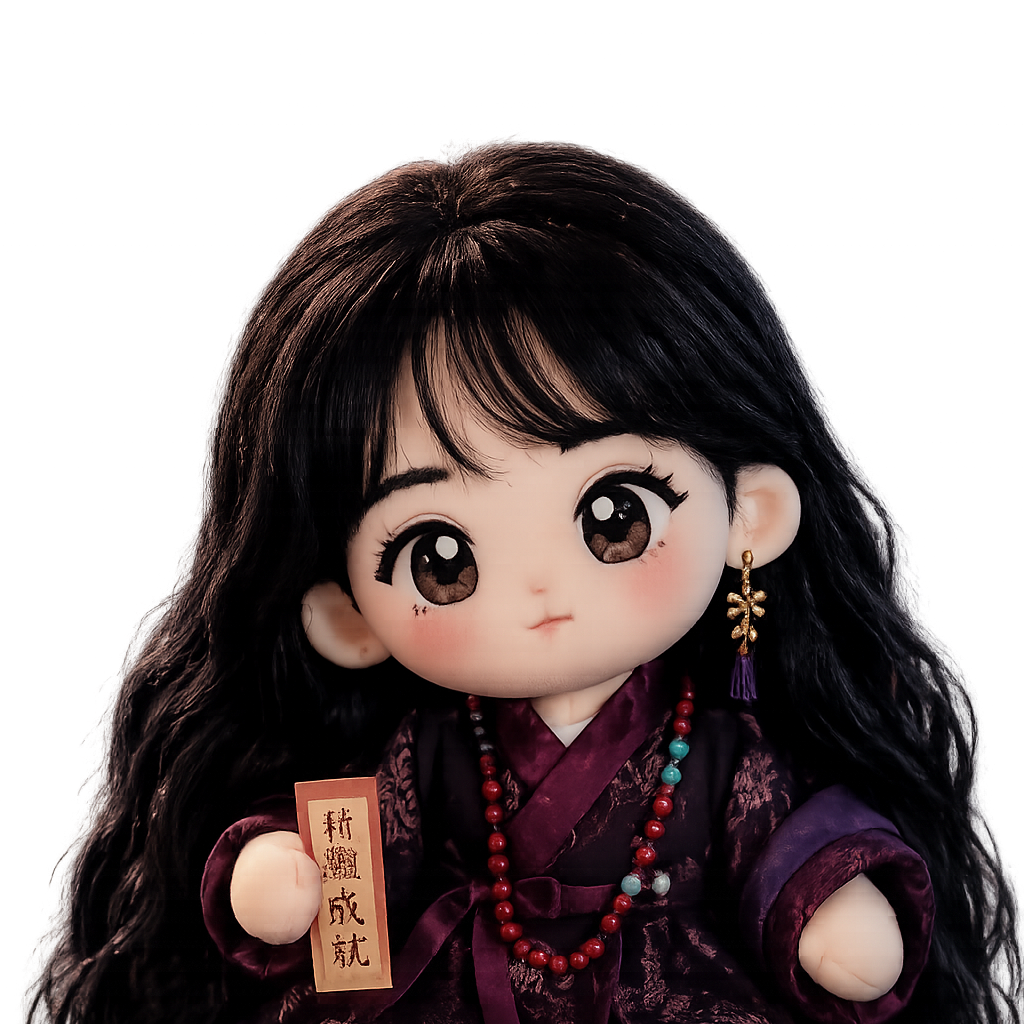
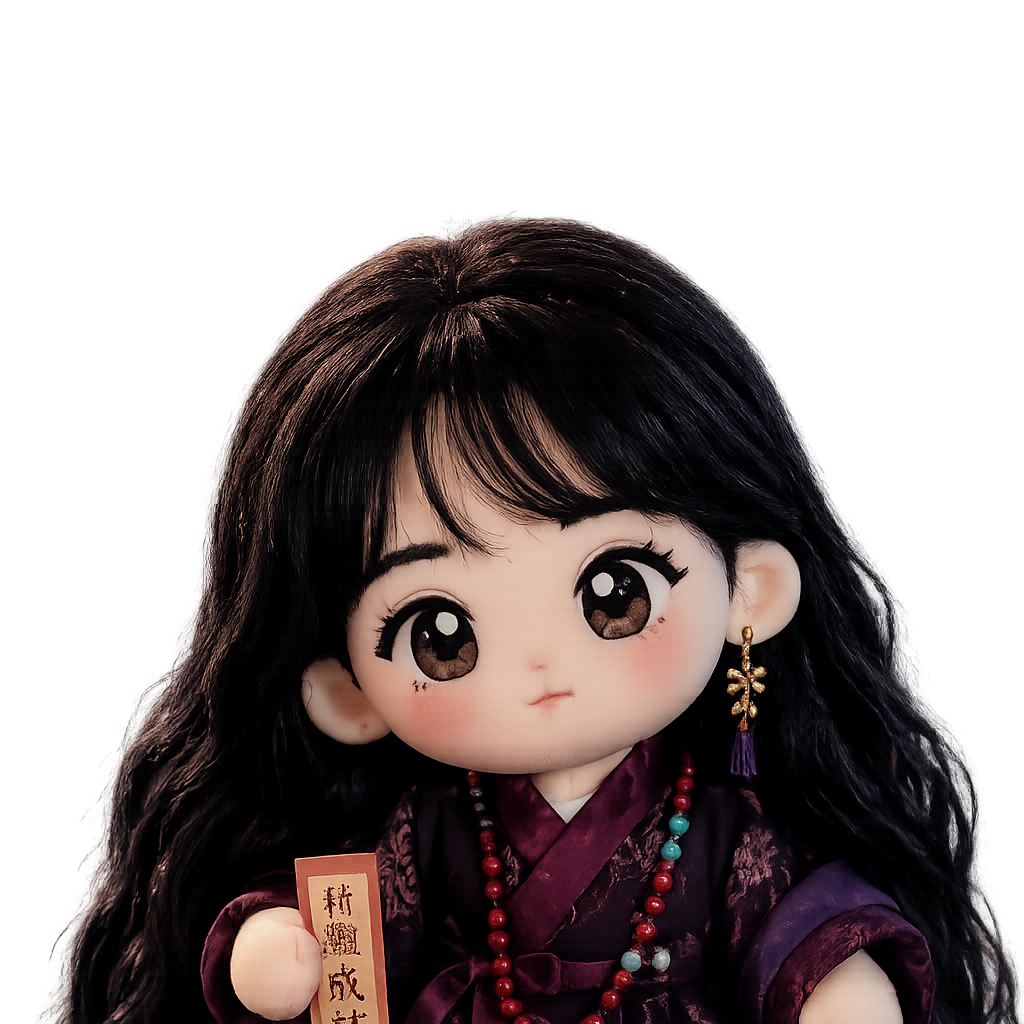
아이콘 재크롭(y=0 기준) + dohwasal 함지살 표시 + 월령도사 함지살 지식 추가
- public/mascot.png: 원본 1024×1536에서 y=0 기준 1024×1024 크롭 (이전 5% offset 제거)
- app/service/dohwasal/page.tsx: 함지살(咸池煞) amber 배너 추가
- app/api/chat/saju/route.ts: 함지살 독립 항목 추가, 년살과 혼동 표기 수정

diff --git a/app/service/dohwasal/page.tsx b/app/service/dohwasal/page.tsx
@@ -389,6 +389,7 @@ export default function DohwasalPage() {
     ["도화살", "진도화", "나체도화", "곤랑도화", "녹방도화"].includes(s.name)
   );
   const hongyeom = r.sinsalList.find(s => s.name === "홍염살");
+  const hamji = r.sinsalList.find(s => s.name === "함지살");
 
   return (
     <main className="min-h-screen bg-[#150812] text-white">
@@ -476,6 +477,18 @@ export default function DohwasalPage() {
             <div className="bg-gradient-to-br from-fuchsia-950/50 to-rose-950/30 border border-fuchsia-700/30 rounded-2xl p-5 mb-5">
               <p className="text-sm font-bold text-fuchsia-300 mb-2">💋 다른 매력살: 홍염살(紅艶殺)이 있어요</p>
               <p className="text-sm text-gray-300 leading-relaxed">{getHongyeomDesc(hongyeom.pillars)}</p>
+            </div>
+          </FadeIn>
+        )}
+
+        {hamji && (
+          <FadeIn delay={380}>
+            <div className="border rounded-2xl p-5 mb-5" style={{ background: "rgba(245,158,11,0.07)", borderColor: "rgba(245,158,11,0.3)" }}>
+              <p className="text-sm font-bold text-amber-300 mb-1">✨ 함지살(咸池煞) — 도화보다 차원 깊은 매력살</p>
+              <p className="text-xs text-amber-500/70 mb-2">삼명통회(三命通會) 기준 · {hamji.pillars.join("·")}주</p>
+              <p className="text-sm text-gray-300 leading-relaxed">
+                도화살과는 다른 개념으로, 매력살 서열에서는 도화보다 상위에 놓입니다. 애교·교태·감각적 매력이 자연스럽게 흘러나오고 예술적 재능과도 연결되는 기운입니다.
+              </p>
             </div>
           </FadeIn>
         )}
